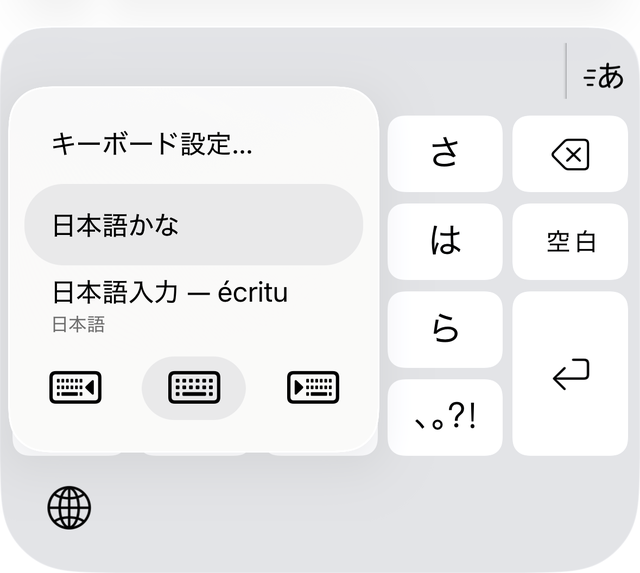
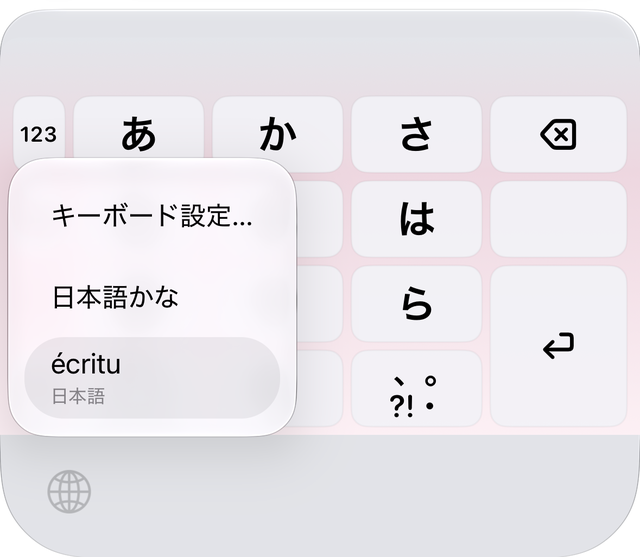
docs(manual): 導入手順(第2章)の iOS 設定の画面 7 枚を撮り直す
ユーザが実機(iPhone 15、2026-10-04)で撮った画面を、前回と同じ構図で幅 640 に切り抜いた。iOS の表示が変わり、
キーボード一覧の項目名は「日本語入力 — écritu」から「écritu / 日本語」になっている。地球儀メニューの画面は
キーボード部分だけを切り抜き、上のメッセージの会話は含めない。画像の高さ指定も合わせて直す。

diff --git a/docs/manual/setup.html b/docs/manual/setup.html
@@ -27,7 +27,7 @@
   </ol>
   <div class="shots">
     <figure>
-      <img src="assets/setup-1-keyboards.png" alt="設定アプリのキーボード画面。「日本語 – かな入力」の下に「新しいキーボードを追加」がある" width="640" height="536">
+      <img src="assets/setup-1-keyboards.png" alt="設定アプリのキーボード画面。「日本語 – かな入力」の下に「新しいキーボードを追加」がある" width="640" height="548">
       <figcaption><span class="step-no">2</span>一般 › キーボード › キーボード。「新しいキーボードを追加」をタップします。</figcaption>
     </figure>
     <figure>
@@ -35,19 +35,19 @@
       <figcaption><span class="step-no">3</span>「他社製キーボード」の欄にある <b>écritu</b> をタップします。</figcaption>
     </figure>
     <figure>
-      <img src="assets/setup-3-added.png" alt="キーボード一覧に「écritu」が追加された状態" width="640" height="637">
+      <img src="assets/setup-3-added.png" alt="キーボード一覧に「écritu」が追加された状態" width="640" height="649">
       <figcaption><span class="step-no">4</span>一覧に追加された <b>écritu</b> を、もう一度タップします。</figcaption>
     </figure>
     <figure>
-      <img src="assets/setup-4-fullaccess-off.png" alt="フルアクセスを許可のトグルがオフの状態" width="640" height="305">
+      <img src="assets/setup-4-fullaccess-off.png" alt="フルアクセスを許可のトグルがオフの状態" width="640" height="316">
       <figcaption><span class="step-no">5</span>「フルアクセスを許可」のスイッチをタップします(最初はオフです)。</figcaption>
     </figure>
     <figure>
-      <img src="assets/setup-5-fullaccess-dialog.png" alt="フルアクセスを許可するかの確認ダイアログ。許可しない／許可のボタン" width="640" height="996">
+      <img src="assets/setup-5-fullaccess-dialog.png" alt="フルアクセスを許可するかの確認ダイアログ。許可しない／許可のボタン" width="640" height="1012">
       <figcaption><span class="step-no">6</span>確認ダイアログで <b>「許可」</b> を選びます。</figcaption>
     </figure>
     <figure>
-      <img src="assets/setup-6-fullaccess-on.png" alt="フルアクセスを許可のトグルがオン(緑)になった状態" width="640" height="305">
+      <img src="assets/setup-6-fullaccess-on.png" alt="フルアクセスを許可のトグルがオン(緑)になった状態" width="640" height="316">
       <figcaption><span class="step-no">✓</span>スイッチが緑になれば、フルアクセスは許可済みです。</figcaption>
     </figure>
   </div>
@@ -80,7 +80,7 @@
   <p>ホームボタンのない iPhone では、écritu のキーボード面の中に地球儀キーはありません。iOS 自身が地球儀ボタンをキーボードの外側に表示するため、écritu はその分をかなキーの広さに使っています。ホームボタンのある iPhone(SE シリーズなど)では iOS 側の地球儀ボタンが無いので、écritu のキー面に 🌐 キーが現れます(5×2/QWERTY は下段の ☺ の右、3×3 系は右列の最下段、各パネルは「あい」の右)。</p>
   <div class="shots" style="max-width:420px">
     <figure>
-      <img src="assets/setup-7-switch.png" alt="地球儀ボタンを長押ししたときのキーボード選択メニュー。「écritu」を選べる" width="640" height="573">
+      <img src="assets/setup-7-switch.png" alt="地球儀ボタンを長押ししたときのキーボード選択メニュー。「écritu」を選べる" width="640" height="557">
       <figcaption>左下の地球儀ボタン 🌐 を長押しすると、この一覧から <b>「écritu」</b> を選べます。</figcaption>
     </figure>
   </div>
